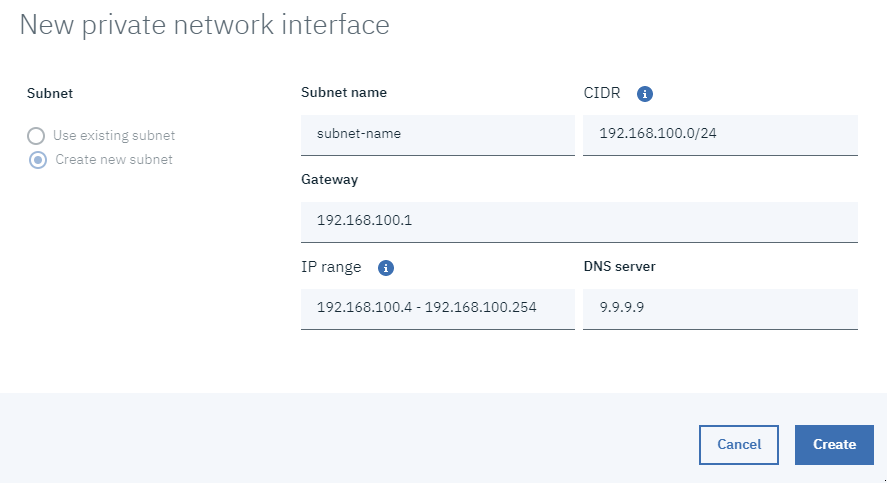
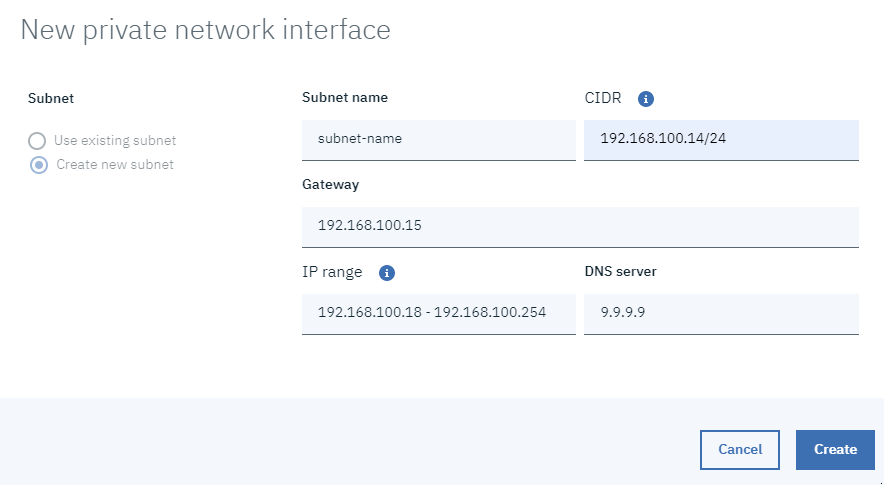
Improve CIDR documentation

diff --git a/configuring-private-subnet.md b/configuring-private-subnet.md
@@ -28,9 +28,17 @@ subcollection: power-iaas
 You can configure a private network subnet when you create a {{site.data.keyword.powerSysFull}}. You must give your subnet a **Name** and specify a **Classless inter-domain routing (CIDR)**. When you specify a CIDR, the **Gateway**, **IP range**, and **DNS server** are automatically populated.
 {: shortdesc}
 
-For the CIDR, you must specify the exact value of an IP address, `192.168.100.14/24`, or a block of IP addresses, `192.168.100.0/22`.
+You must use CIDR notation when you choose the IP ranges for your private network subnet.
 
-`192.168.100.14/24` represents the IPv4 address, `192.168.100.14`, and its associated routing prefix `192.168.100.0`, or equivalently, its subnet mask `255.255.255.0` (which has 24 leading 1-bits). The IPv4 block, `192.168.100.0/22`, represents the 1024 IPv4 addresses from `192.168.100.0` to `192.168.103.255`.
+```shell
+<IPv4 address>/number>
+```
+{: screen}
+
+CIDR notation is defined in [RFC 1518](https://tools.ietf.org/html/rfc1518){: external} and [RFC 1519](https://tools.ietf.org/html/rfc1519){: new_window}{: external}.
+{: note}
+
+For example, `192.168.100.14/24` represents the IPv4 address, `192.168.100.14`, and its associated routing prefix `192.168.100.0`, or equivalently, its subnet mask `255.255.255.0` (which has 24 leading 1-bits).
 
 The first IP address is always reserved for the gateway in both the Washington, D.C. (WDC) and Dallas (DAL) colocations (colo). The second and third IP addresses are reserved for high-availability gateways in only the WDC colo. The subnet address and subnet broadcast address are reserved for both colos.
 {: important}
@@ -46,16 +54,6 @@ ibmcloud pi network-create-private NETWORK_NAME --cidr-block CIDR --ip-range "st
 
 ## Using CIDR notation
 {: #cidr-notation}
-
-You must use CIDR notation when you choose the IP ranges for your private network subnet.
-
-```shell
-<IPv4 address>/number>
-```
-{: screen}
-
-CIDR notation is defined in [RFC 1518](https://tools.ietf.org/html/rfc1518){: external} and [RFC 1519](https://tools.ietf.org/html/rfc1519){: new_window}{: external}.
-{: note}
 
 If you use an IP range outside of those that are defined by [RFC 1918](https://tools.ietf.org/html/rfc1918){: new_window}{: external} (`10.0.0.0/8`, `172.16.0.0/12`, or `192.168.0.0/16`) for a subnet, the instances that are attached to that subnet might not be able to reach parts of the public internet.
 
